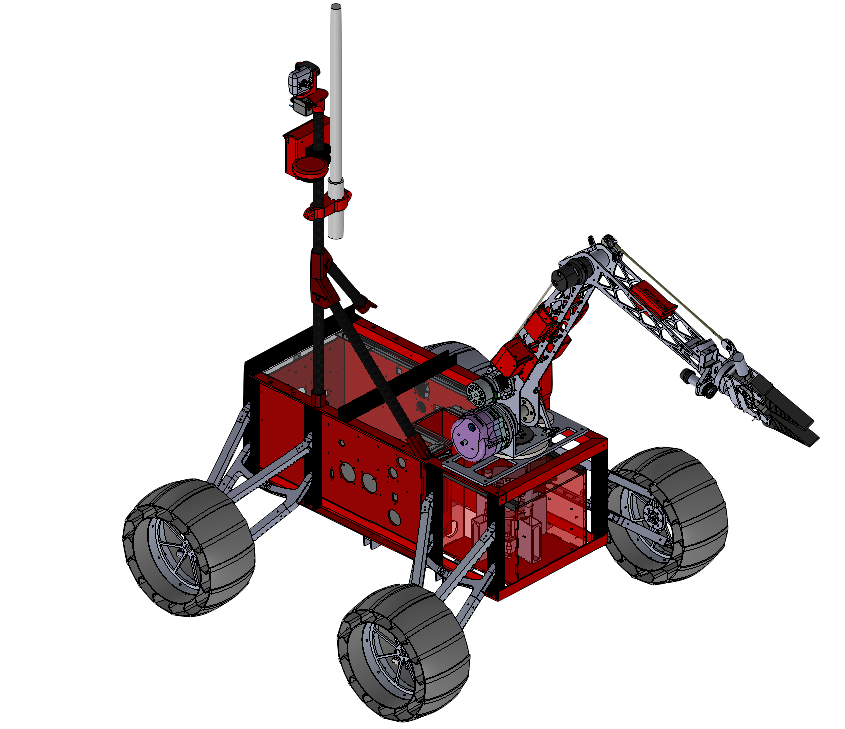
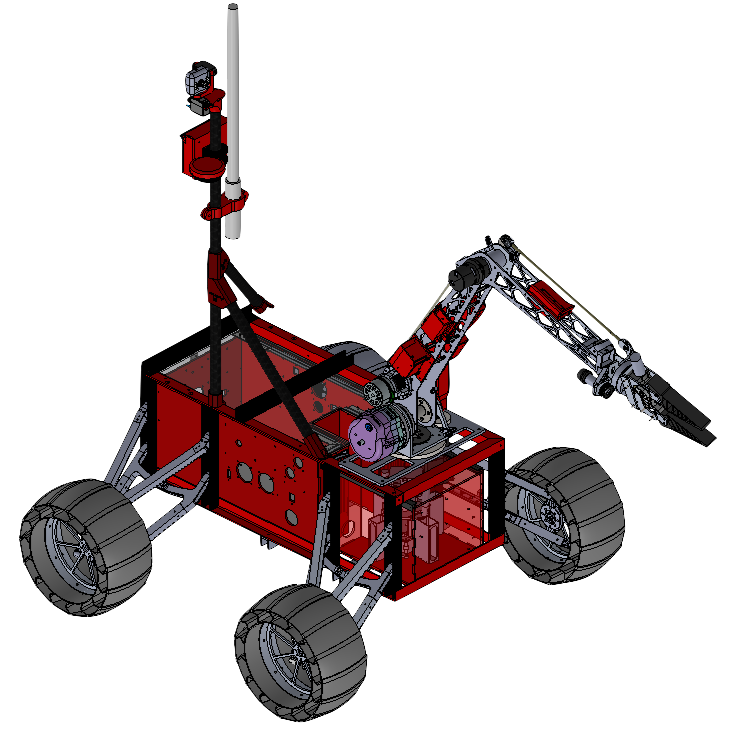
fixed homepage image formating

Changed region(s): [[0.0, 0.0, 0.9959, 0.9959]]

diff --git a/src/components/HomepageFeatures/styles.module.css b/src/components/HomepageFeatures/styles.module.css
@@ -6,8 +6,8 @@
 }
 
 .featureSvg {
-  height: 400px;
-  width: 400px;
+  height: 300px;
+  width: 300px;
 }
 
 .featureImg {
